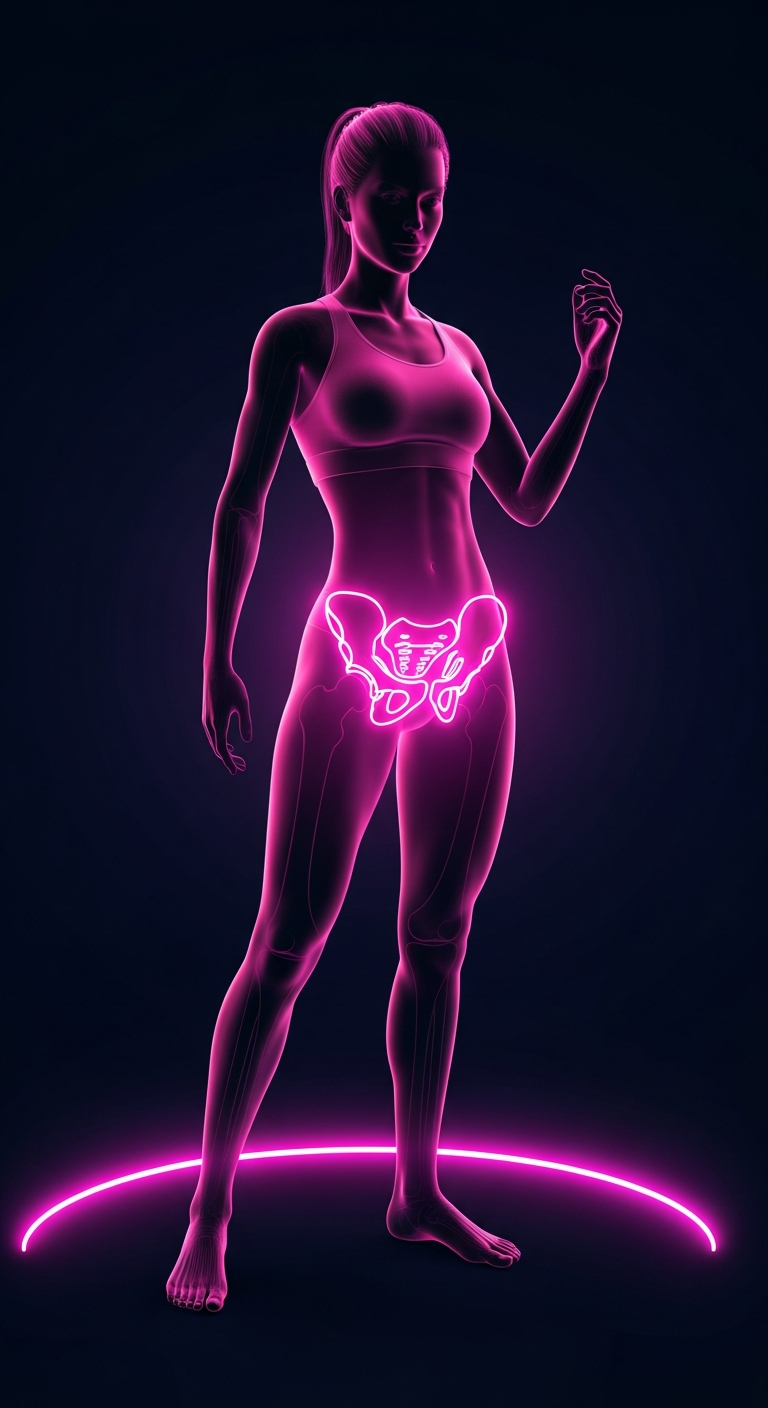
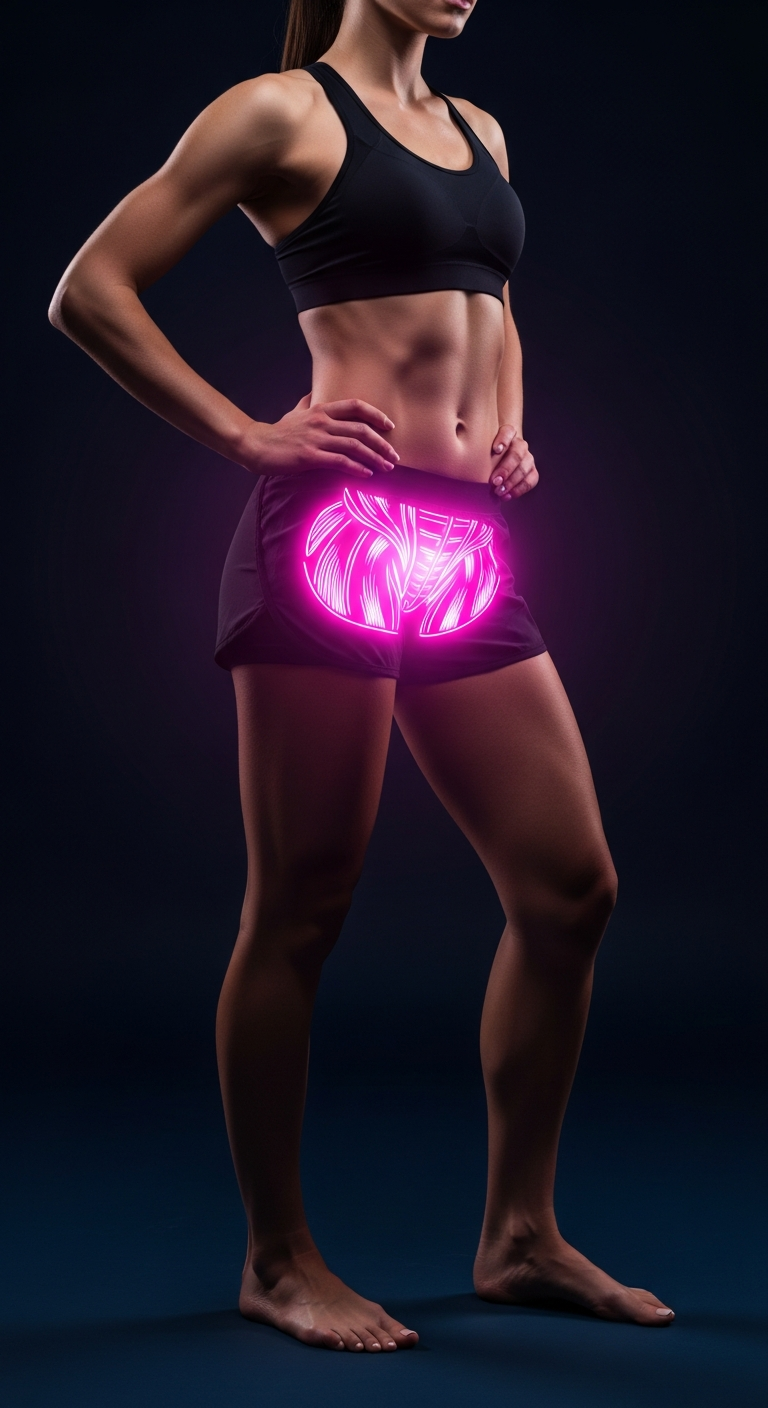
Update onboarding screens with realistic images and fix text cutoff
Regenerates hero images for onboarding, replaces placeholder outlines with photorealistic depictions of people, and resolves a text clipping issue on the tutorial screen for men by adjusting layout styles.

Replit-Commit-Author: Agent
Replit-Commit-Session-Id: 58471a71-f54b-4cff-8d9d-4aa10fa855f0
Replit-Commit-Checkpoint-Type: full_checkpoint
Replit-Commit-Event-Id: 0b0abf2e-5800-4751-a0d6-d2e9970dbe4f
Replit-Commit-Screenshot-Url: https://storage.googleapis.com/screenshot-production-us-central1/e263d5aa-5c81-4dbd-a2b2-ea30124aec86/58471a71-f54b-4cff-8d9d-4aa10fa855f0/zi8QQP0
Replit-Helium-Checkpoint-Created: true

diff --git a/client/screens/OnboardingScreen.tsx b/client/screens/OnboardingScreen.tsx
@@ -907,7 +907,6 @@ const styles = StyleSheet.create({
   tutorialScroll: {
     paddingBottom: 16,
     gap: 16,
-    alignItems: "center",
   },
   tutorialHeadline: {
     fontSize: 28,
@@ -915,12 +914,14 @@ const styles = StyleSheet.create({
     color: TEXT,
     textAlign: "center",
     marginTop: 8,
+    alignSelf: "center",
   },
   genderPill: {
     paddingVertical: 5,
     paddingHorizontal: 16,
     borderRadius: BorderRadius.full,
     borderWidth: 1,
+    alignSelf: "center",
   },
   genderPillText: {
     fontSize: 13,
@@ -967,6 +968,7 @@ const styles = StyleSheet.create({
     flexDirection: "row",
     alignItems: "center",
     justifyContent: "center",
+    alignSelf: "center",
     gap: 6,
     marginTop: 4,
   },